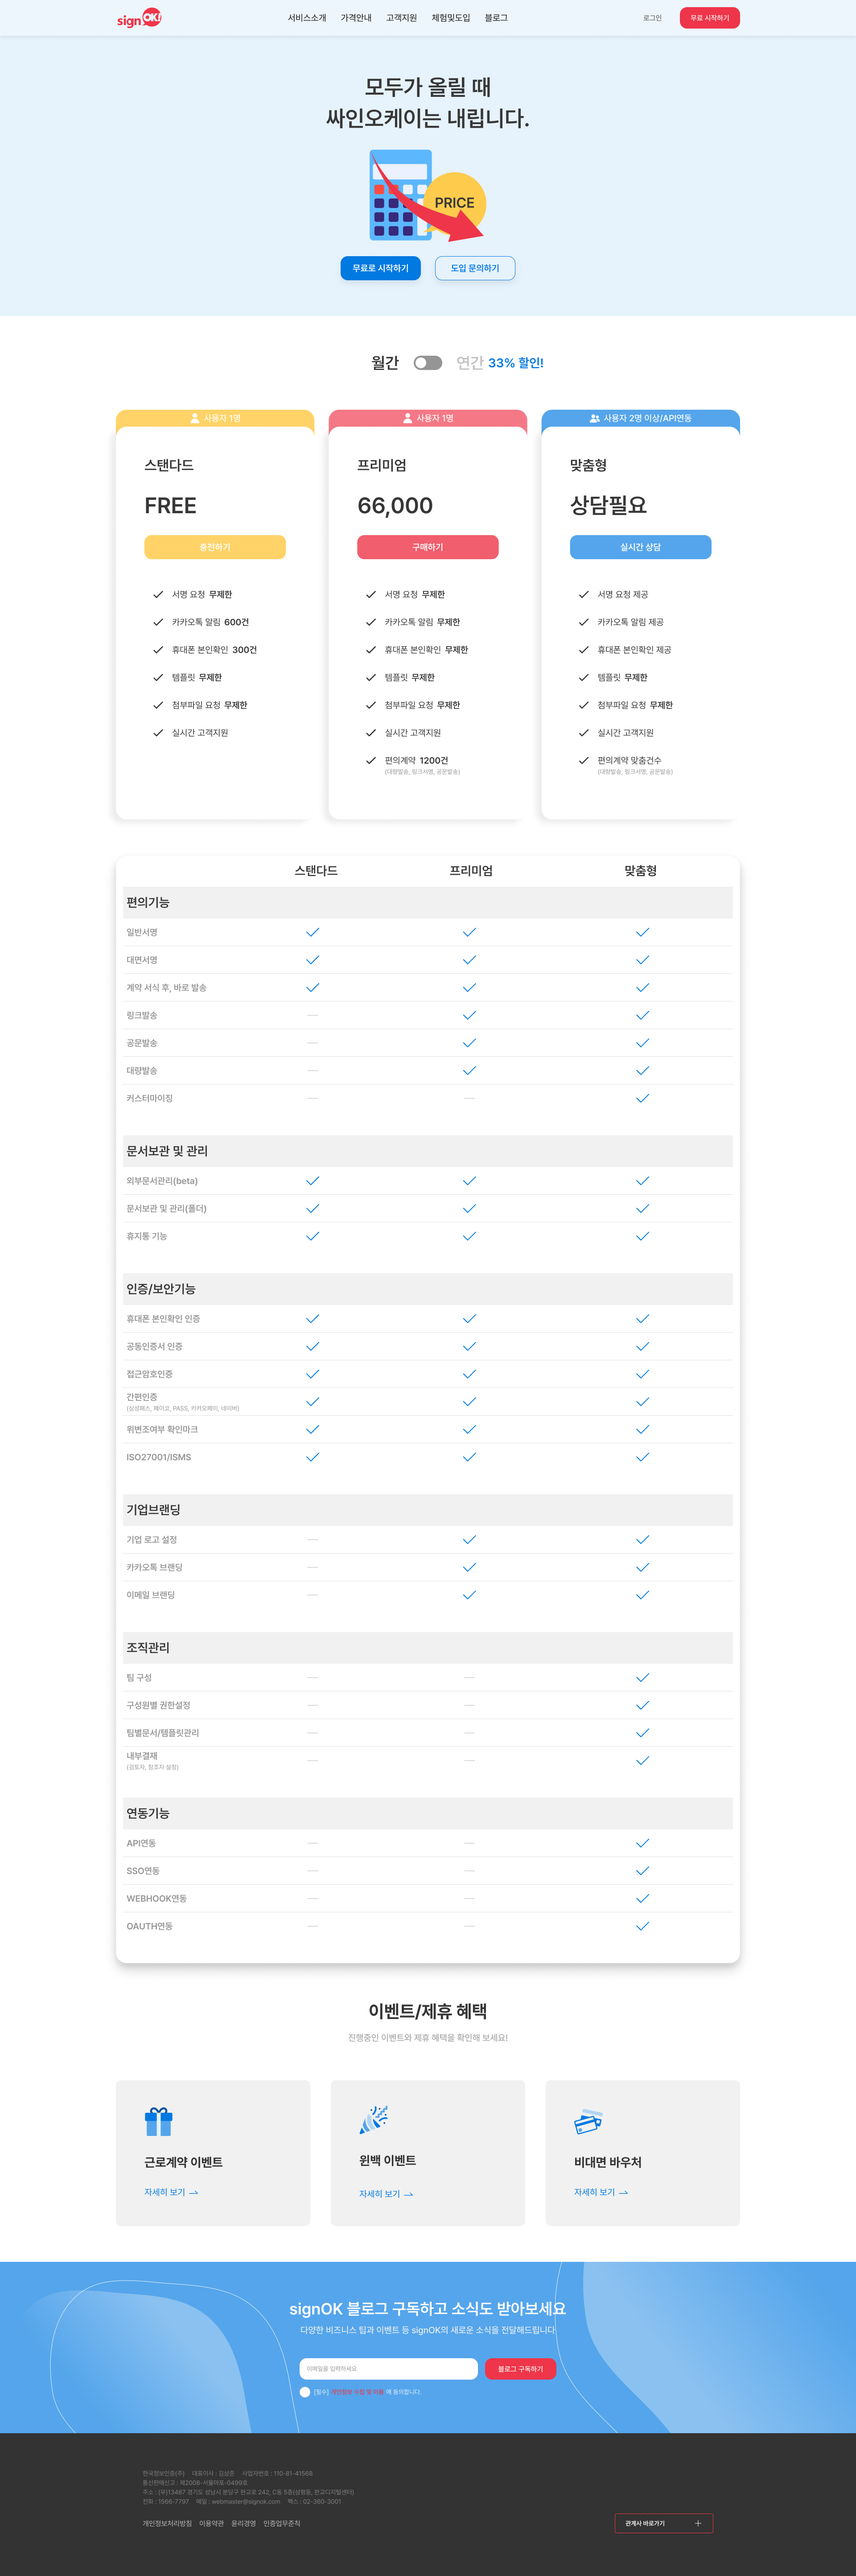
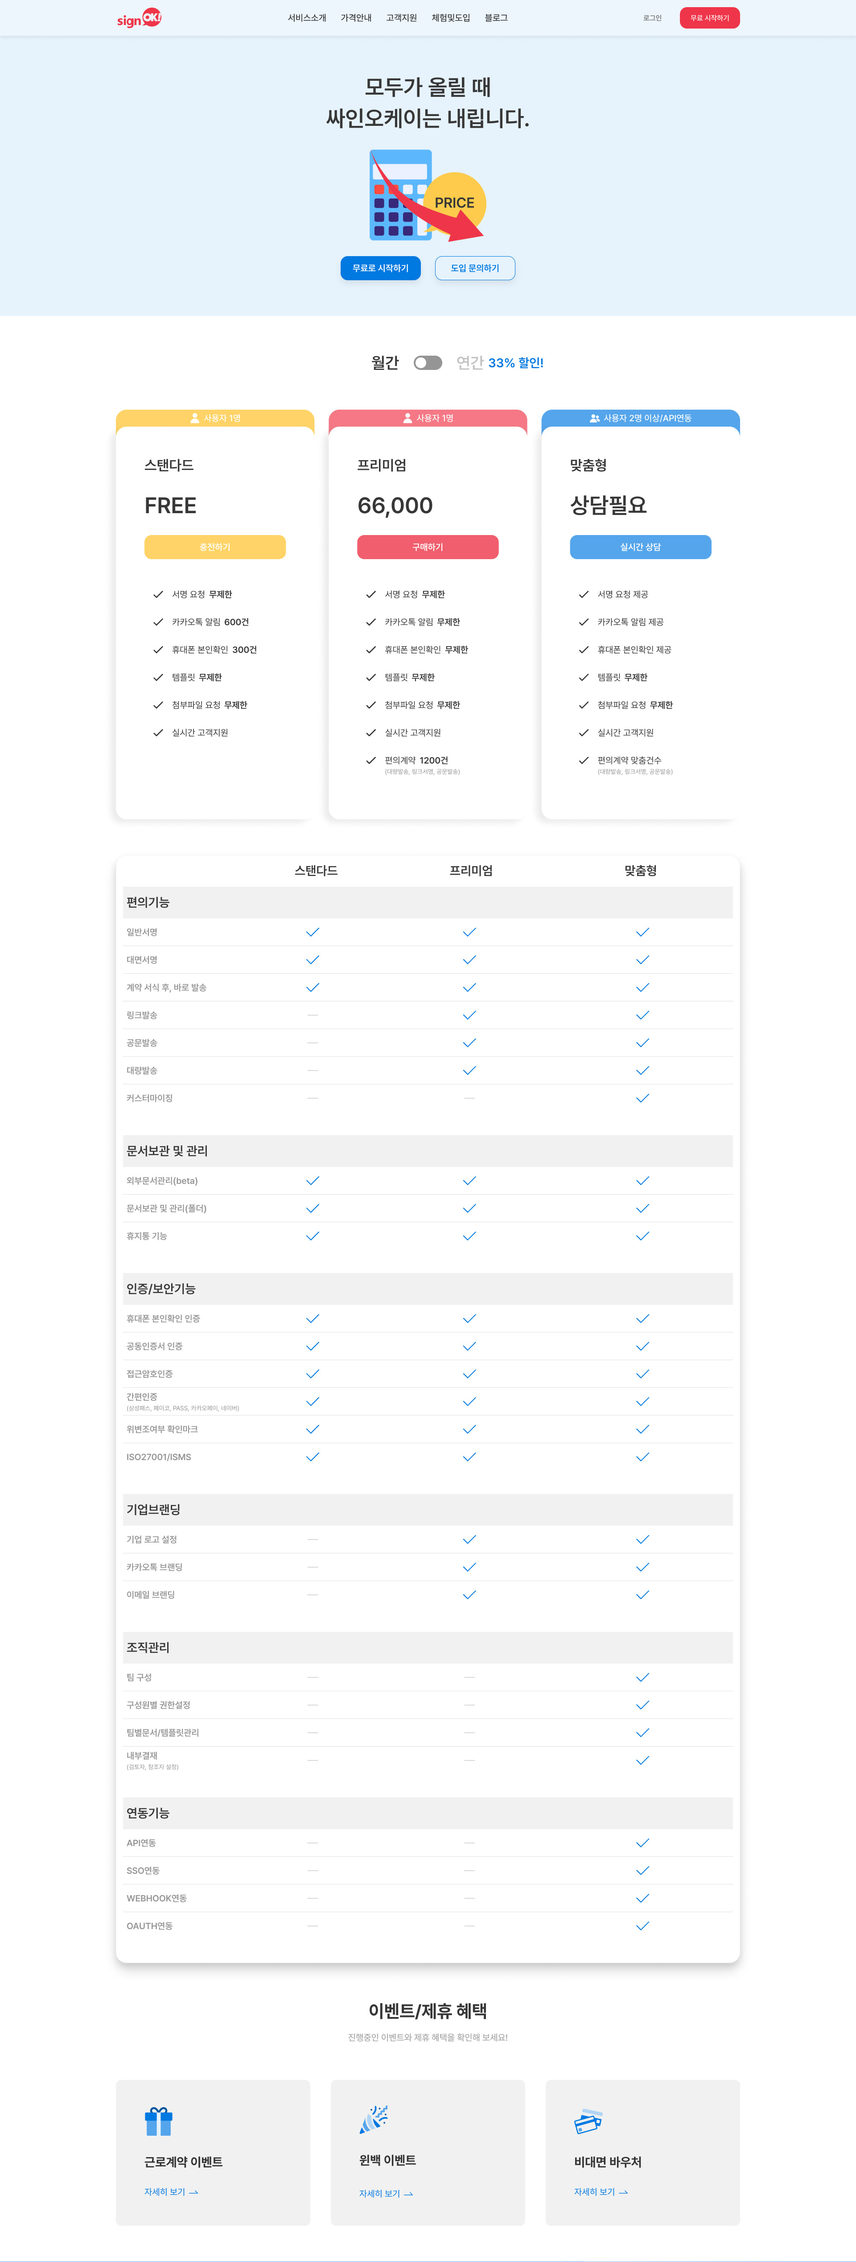
가격안내 페이지 이미지 수정

diff --git a/price.html b/price.html
@@ -39,7 +39,7 @@
             </article> -->
 
         </main>
-        <footer class="footers"></footer>
+        <footer class="footer has-form"></footer>
     </body>
     <script>
 
